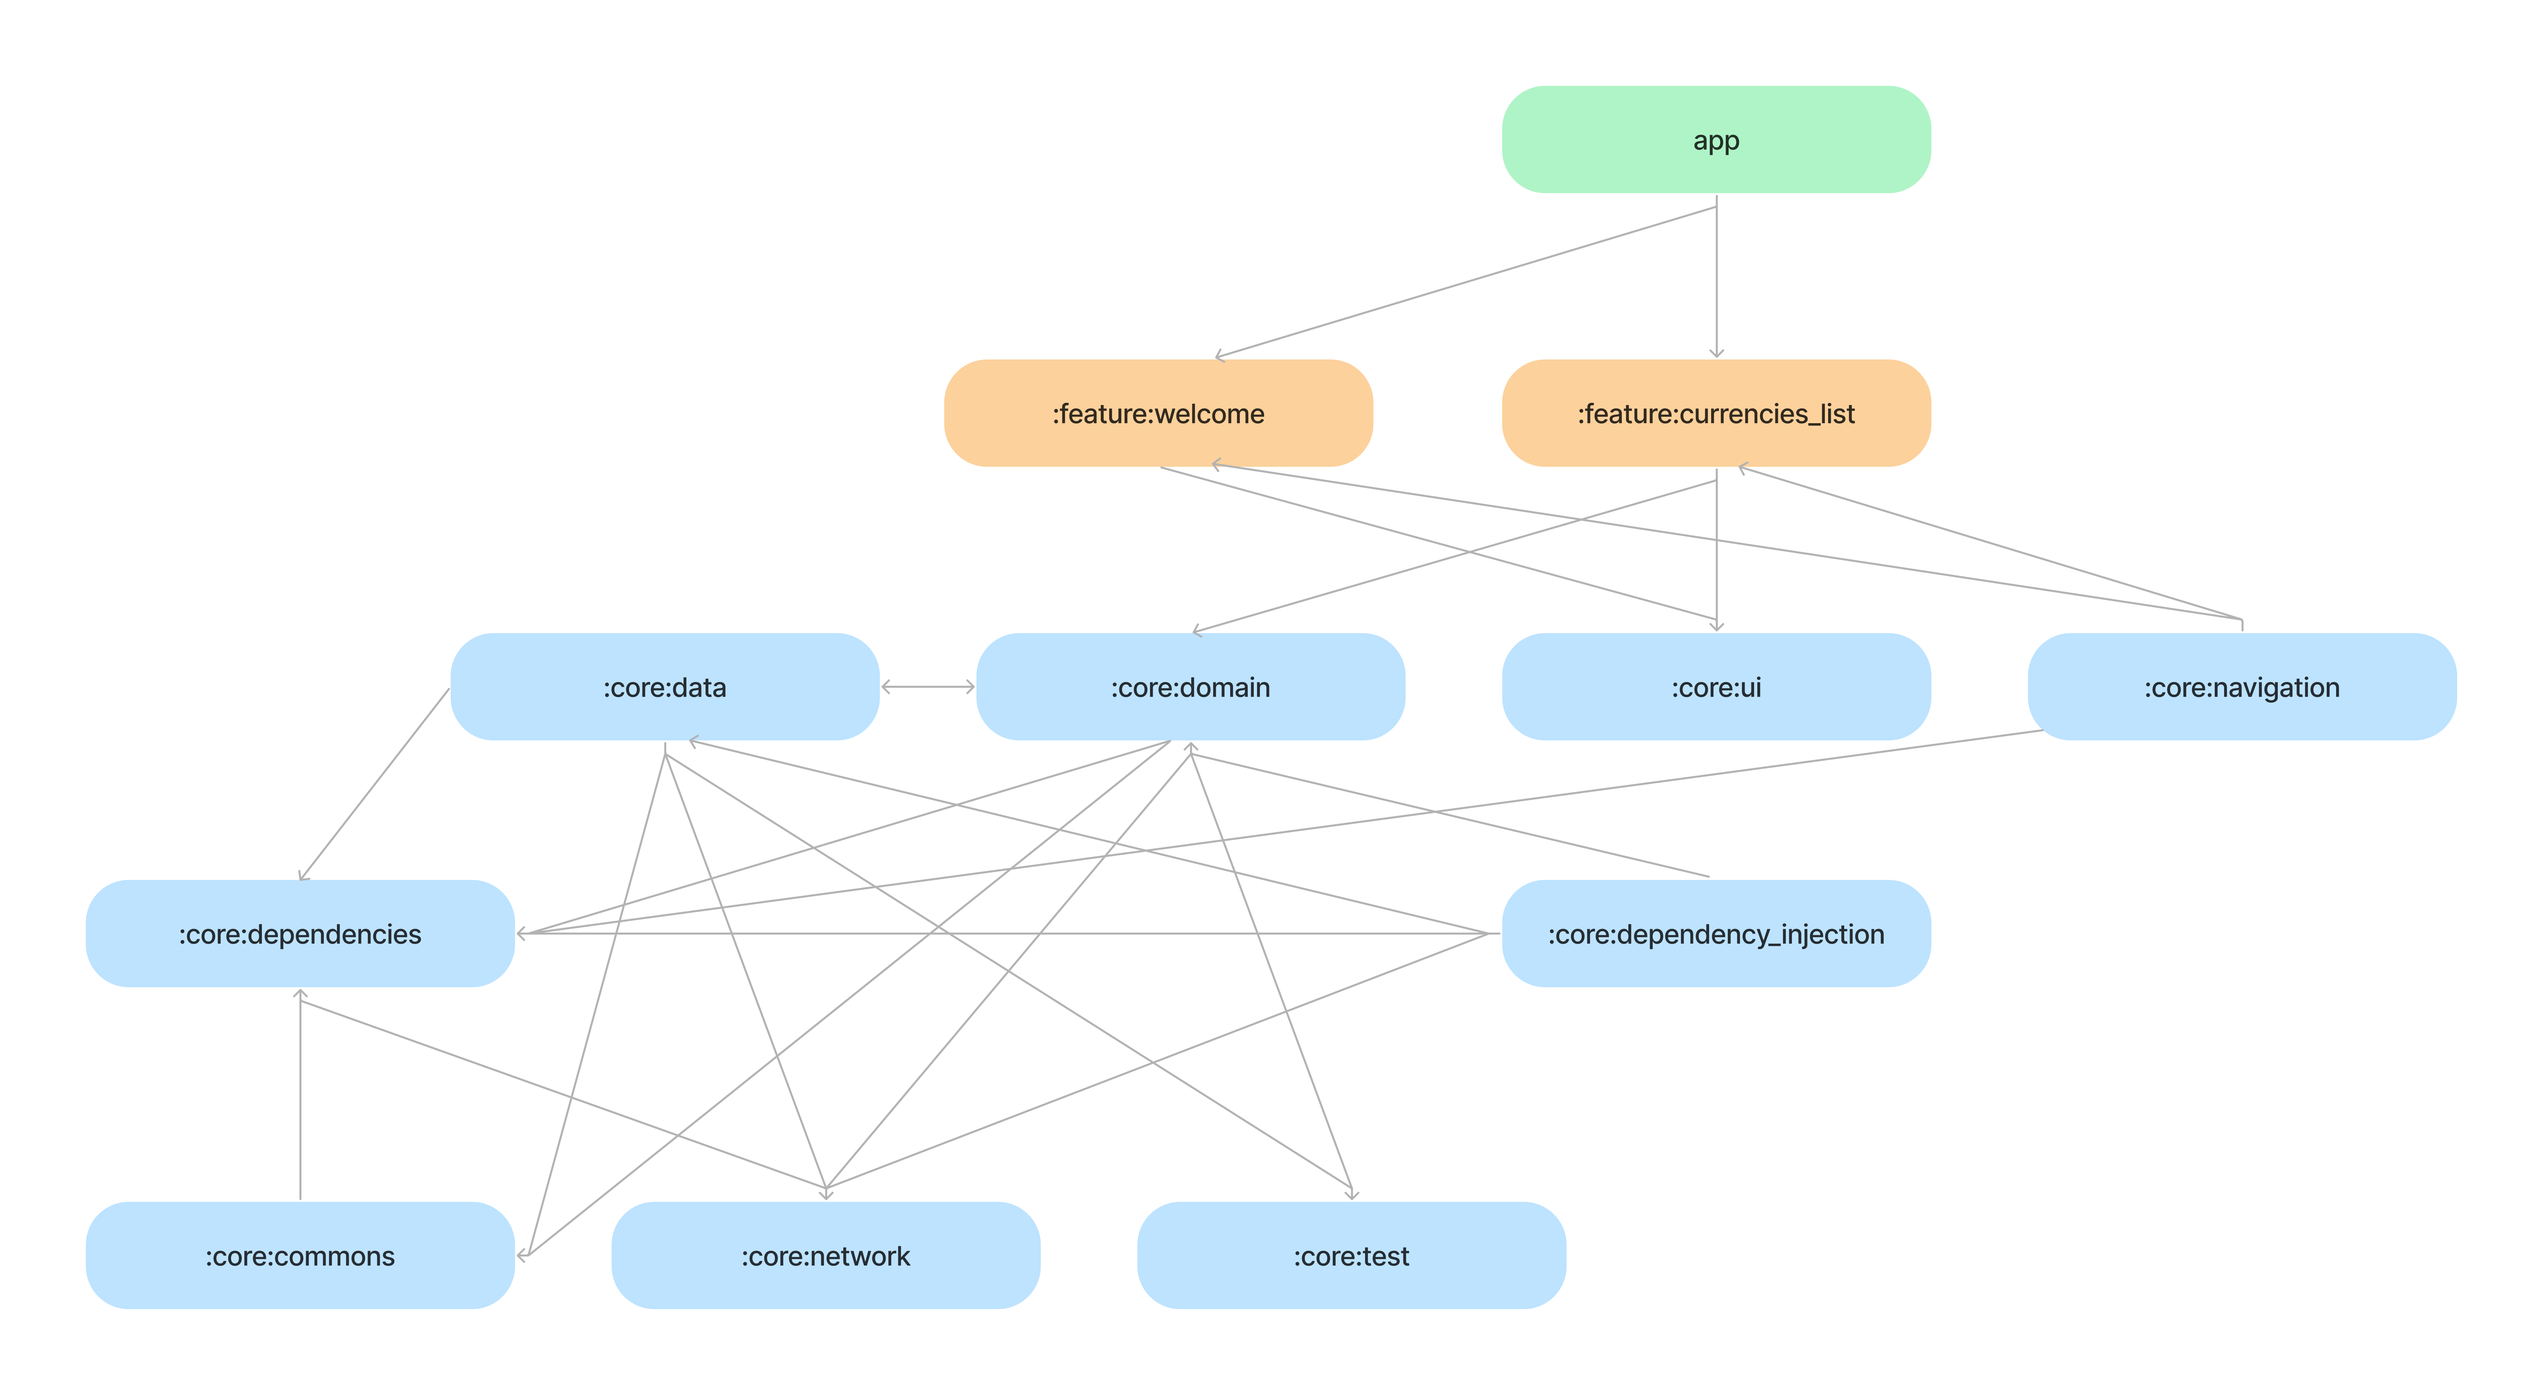
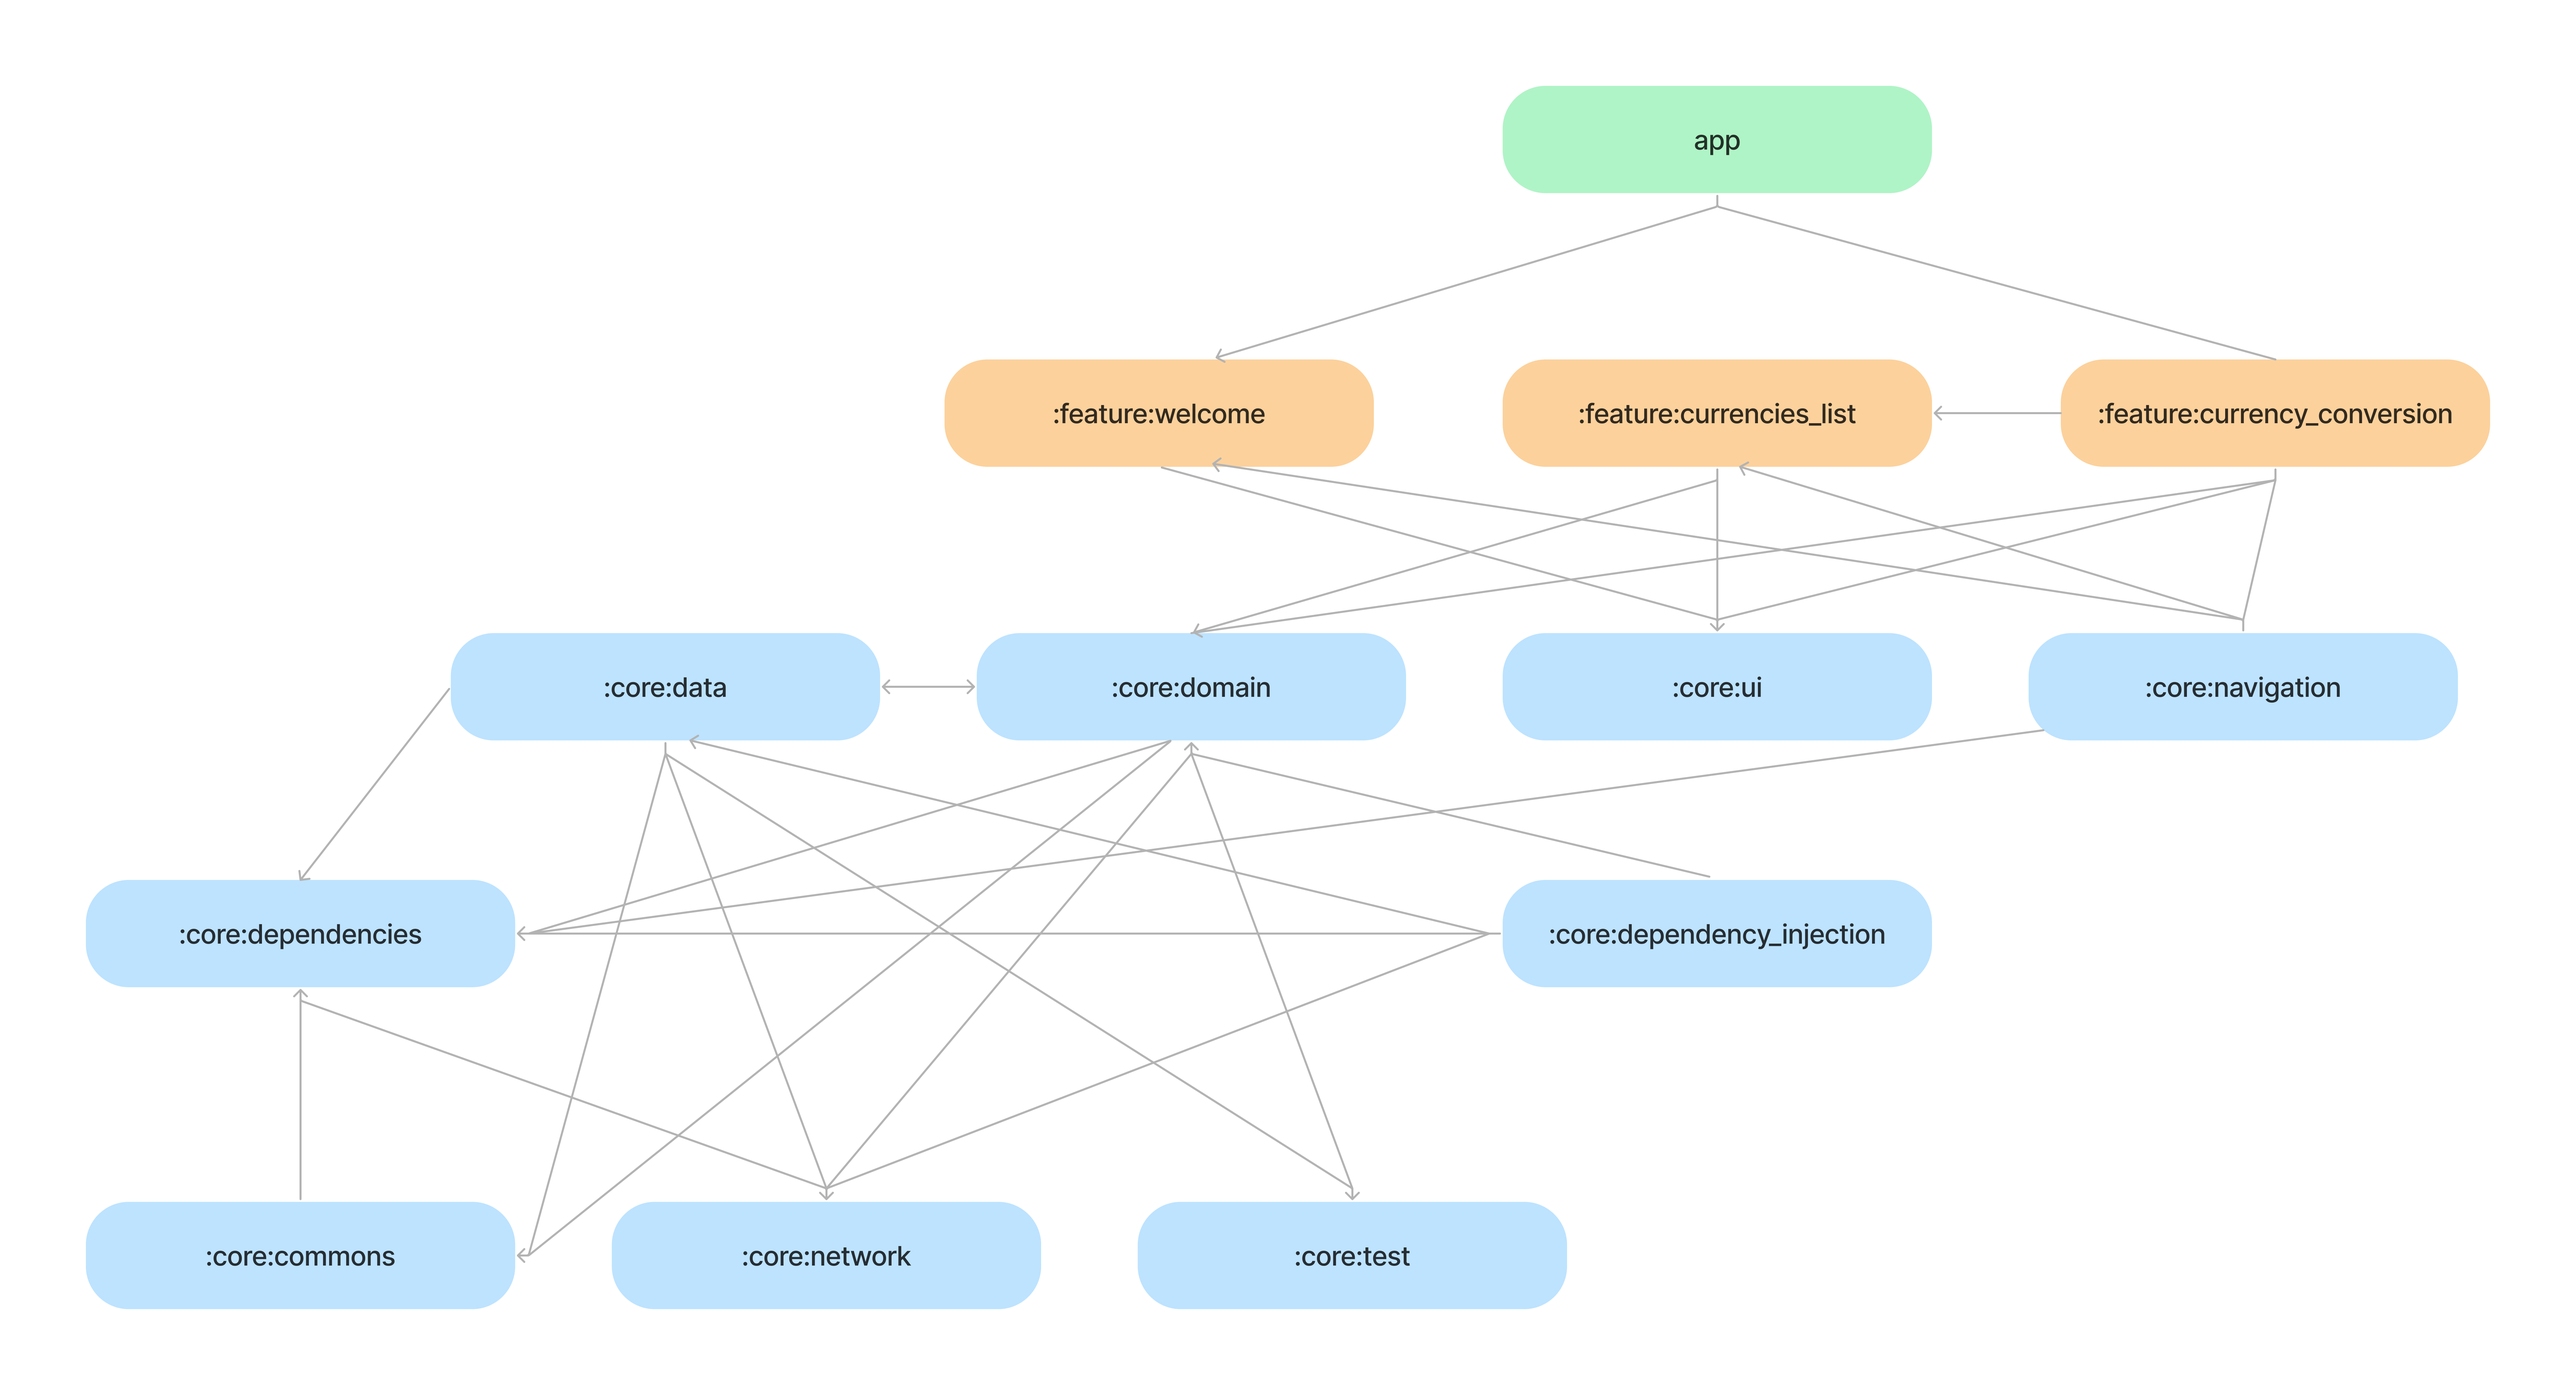
docs(readme): update 'app_modules' image and improve description

diff --git a/packages/feature/feature_conversion/lib/presentation/store/c_conversion_store.dart b/packages/feature/feature_conversion/lib/presentation/store/c_conversion_store.dart
@@ -1,3 +1,4 @@
+import 'package:core_commons/core_commons.dart';
 import 'package:core_dependencies/injectable_dependencies.dart';
 import 'package:core_domain/core_domain.dart';
 import 'package:flutter/widgets.dart';
@@ -29,7 +30,10 @@ class CConversionStore implements ConversionStore {
     final desireCurrency = _desireCurrency?.code;
 
     final params = ConvertCurrencyParams(
-        from: originCurrency!, to: desireCurrency!, amount: _amount);
+      from: originCurrency!,
+      to: desireCurrency!,
+      amount: _amount,
+    );
 
     final foldable = await _convertCurrencyUseCase(params);
 

diff --git a/README.md b/README.md
@@ -31,8 +31,8 @@ It is a **work in progress** 🚧
 
 # Features
 
-The project has only two features, called `:feature_welcome` and
-`:feature_currencies_list`, you can see more details in the [app modularization
+The project has only three features, `:feature_welcome`, `:feature_conversion` and
+`:feature_currencies_list`, you can see more details in [app modularization
 guide](#app-modularization-guide).
 
 ## Screenshots
@@ -41,7 +41,7 @@ guide](#app-modularization-guide).
 
 # App Modularization Guide
 
-The project uses an modularization approach with mono-repo, to organize
+The project uses a modularization approach with mono-repo, to organize
 and breaking the concept of monolithic into loosely coupled, self contained
 modules.
 
@@ -63,9 +63,9 @@ The project contains the following types of modules:
   but they shouldn’t depend on feature or app modules.
 
 All these modules are managed by Melos CLI, with this tool, we have more control
-over the dependencies in the whole project and executes common tasks in all modules
-in the same time -- [know more about Melos here](https://melos.invertase.dev/).
-You can see, some scripts that is used by the project on `melos.yaml` file in the
+over the dependencies in the entire project and we able to execute common tasks in all modules
+at the same time -- [know more about Melos here](https://melos.invertase.dev/).
+You can find, some scripts that is used by the project on `melos.yaml` file in the
 root directory.
 
 As a mentioned above, the project uses an mono-repo approach to organize all
@@ -98,7 +98,7 @@ Some advantages of this approach:
 # UI and Design
 
 The app was designed with an simple and minimalist purpose, we use the concepts
-of design tokens and atomic design, you can find more about in the
+of design tokens and atomic design, you can check on
 [figma file](https://www.figma.com/file/aBGCDeRuqnngXxhlY4p2O9/Currency-Converter-App-Case-Study?node-id=45%3A39&t=5egYOZqyjrlwngih-1).
 
 The app has supports for dark and light mode, you can find all components and tokens
@@ -113,7 +113,7 @@ in the `:core_ui` package.
 - Design System and tokens for UI
 - Lottie Animations
 - Navigation system with `Go Router`
-- State management with `Change Notifier`
+- State management with `Value Notifier`
 
 # Getting Started
 
@@ -132,7 +132,7 @@ melos bootstrap
 This command runs `flutter pub get` in all modules at the same time and run
 `build runner` when the dependencies are installed with successful.
 
-3. Finally run the app with:
+3. At last, run the app with:
 
 ```shell
 flutter run
